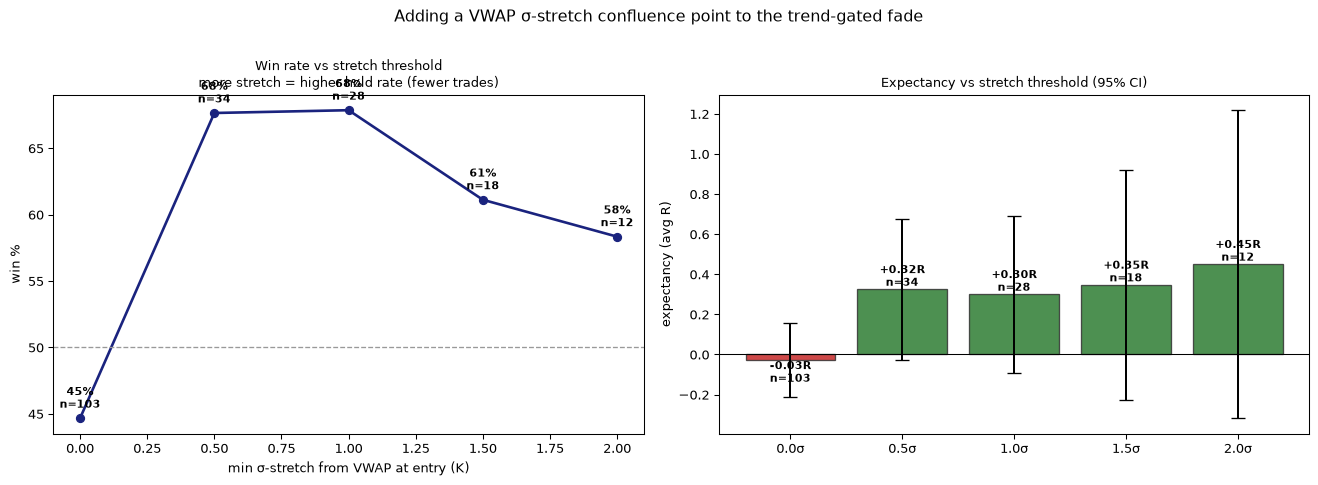
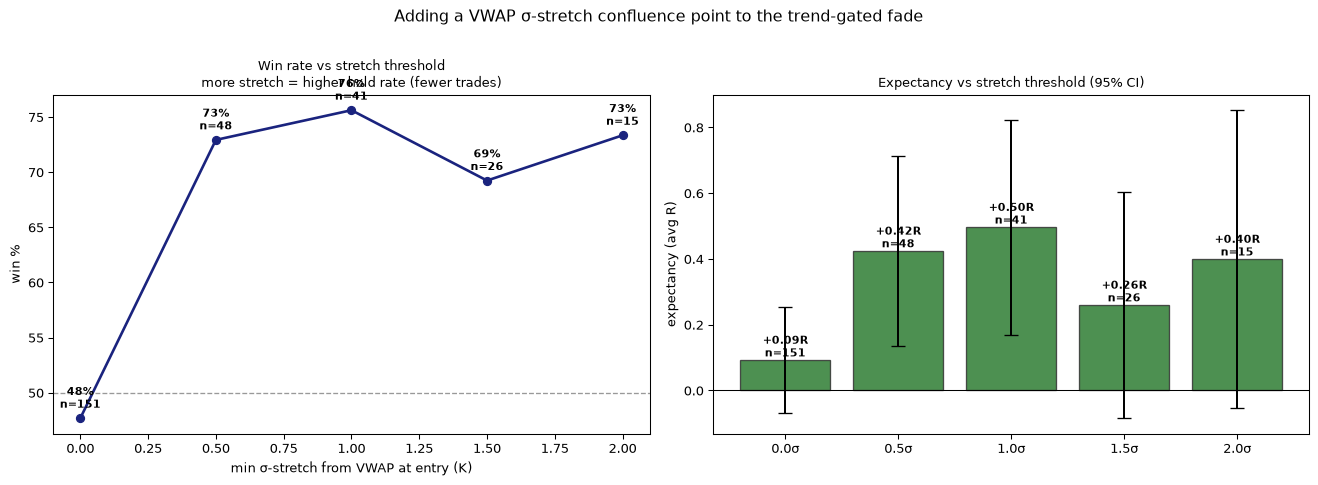
Deep-pool fade validation + veto re-test on max existing sample
External deeper data unavailable (IBKR at 1000-bar ceiling, FMP charts
plan-gated), so pooled every deep intraday file we hold (swap shallow
nq_1h_eth for nq_1h + add all deep 30m/1h).

Result: the STRETCH gate is a real edge. Stretched fades (>=0.5s) = +0.42R,
73% win, n=48, 95% CI excludes zero; un-stretched fades = +0.01R (dead).
Cross-market veto re-tested on the bigger sample: still backwards (keeps
losers, discards +0.60R winners; lift -0.42 to -0.68R) — stays rejected.

Claude-Session: https://claude.ai/code/session_016aQdjV8pEkud2m7UoLztFR

diff --git a/scripts/fade_deep_run.py b/scripts/fade_deep_run.py
@@ -1,0 +1,35 @@
+"""Measure the fade edge on the DEEPEST pool our existing data allows.
+
+External deeper history is unavailable (IBKR is at its ~1000-bar/call ceiling;
+FMP charts are plan-gated), so this squeezes the maximum sample out of the deep
+1h files we already hold — swapping the shallow nq_1h_eth (78 sess) for nq_1h
+(128) and adding every deep intraday file. Reuses the validated stretch_filter
+machinery; reports fade expectancy vs stretch with CIs at the max sample.
+
+Caveat printed below: 1h and 30m of the same calendar are correlated, so the
+pooled n overstates the count of *independent* fades.
+"""
+
+from __future__ import annotations
+
+import sys
+from pathlib import Path
+
+ROOT = Path(__file__).resolve().parent.parent
+sys.path.insert(0, str(ROOT))
+import scripts.stretch_filter_test as sf
+
+sf.SERIES = [
+    ("qqq_1h.json", False, 7), ("spy_1h.json", False, 7),
+    ("es_1h.json", True, 7),   ("nq_1h.json", True, 7),
+    ("nq_1h_eth.json", True, 7),
+    ("qqq_30min.json", False, 13), ("spy_30min.json", False, 13),
+    ("es_30min.json", True, 13),   ("nq_30min.json", True, 13),
+    ("nq_30min_eth.json", True, 13),
+    ("qqq_30m_live.json", False, 13), ("spy_30m_live.json", False, 13),
+    ("es_30m_live.json", True, 13),
+]
+
+if __name__ == "__main__":
+    print(f"DEEP POOL — {len(sf.SERIES)} intraday files (1h + 30m, NQ+ES+QQQ+SPY)\n")
+    sf.main()

diff --git a/scripts/backtest_xmarket_veto.py b/scripts/backtest_xmarket_veto.py
@@ -38,11 +38,13 @@ from scripts.stretch_filter_test import session_stretch
 ET = "America/New_York"
 K_STRETCH = 0.5          # our live fade gate (follower must be extended)
 K_LEADER = 0.5           # leader "risk-on/off" stretch threshold for the veto
-PAIRS = [   # (follower_file, fut, leader_file, fut, bps)  — all matched timeframes
-    ("nq_30min_eth.json", True,  "es_30min.json",    True,  13),
+PAIRS = [   # (follower_file, fut, leader_file, fut, bps)  — deepest matched files
+    ("nq_1h.json",        True,  "es_1h.json",       True,  13),
     ("nq_1h_eth.json",    True,  "es_1h.json",       True,  13),
-    ("qqq_30min.json",    False, "spy_30min.json",   False, 13),
+    ("nq_30min.json",     True,  "es_30min.json",    True,  13),
+    ("nq_30min_eth.json", True,  "es_30m_live.json", True,  13),
     ("qqq_1h.json",       False, "spy_1h.json",      False, 13),
+    ("qqq_30min.json",    False, "spy_30min.json",   False, 13),
     ("qqq_15min.json",    False, "spy_15min.json",   False, 13),
     ("qqq_30m_live.json", False, "spy_30m_live.json", False, 13),
 ]
